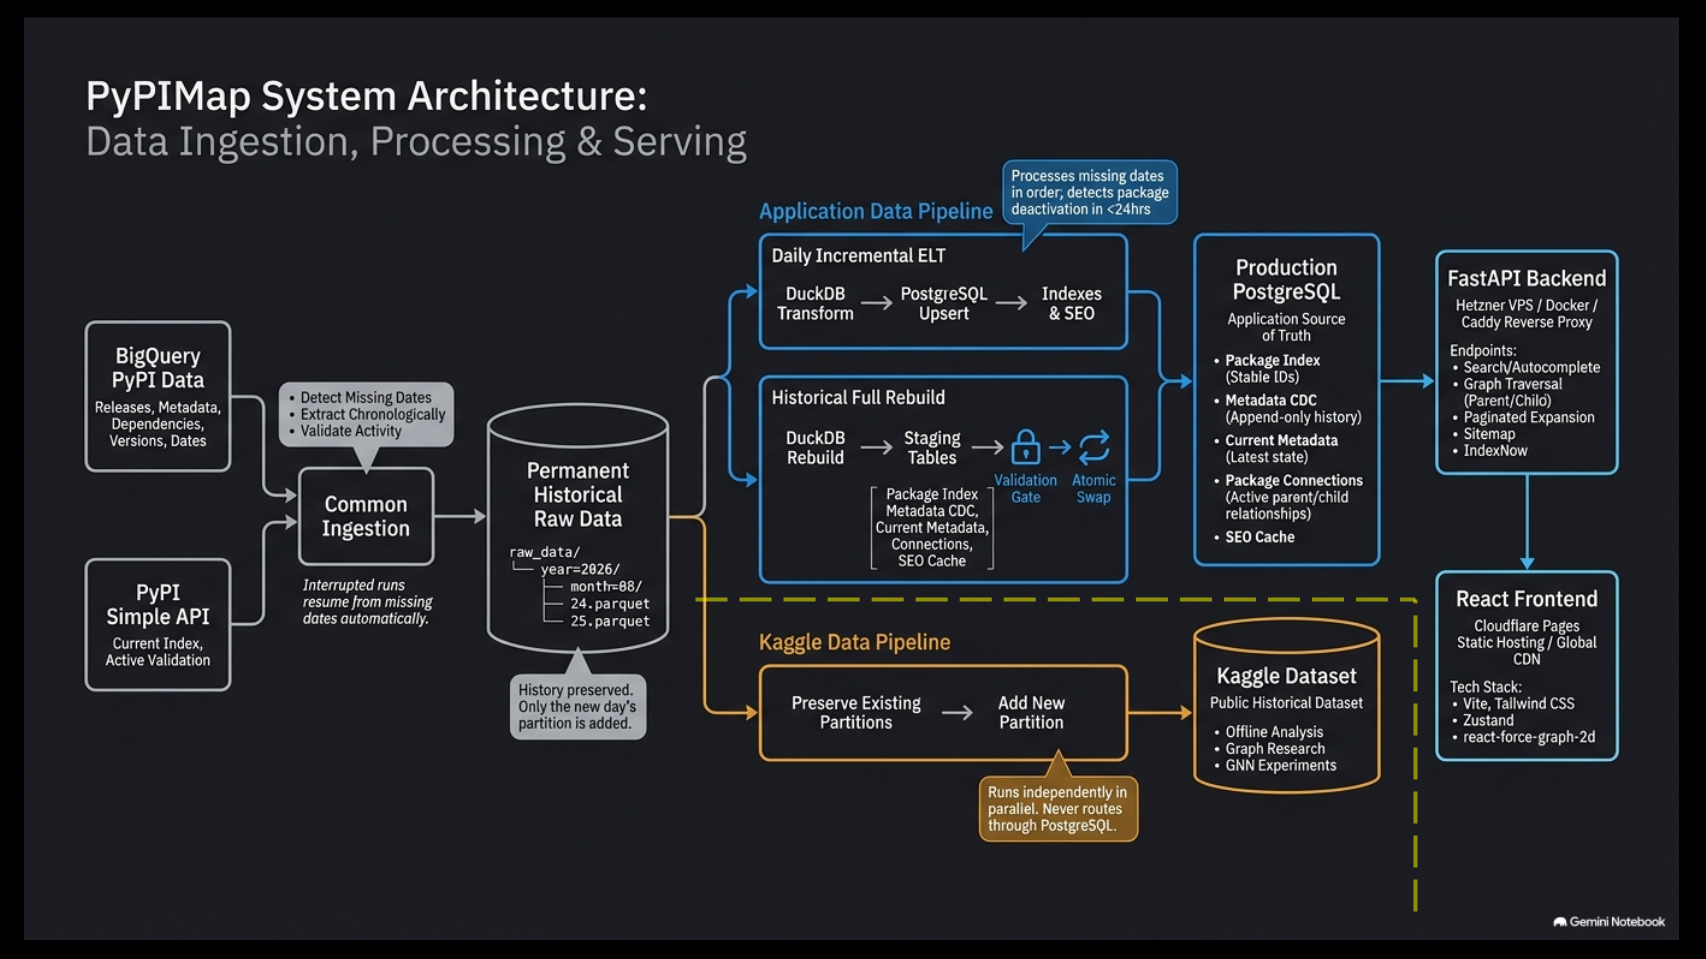
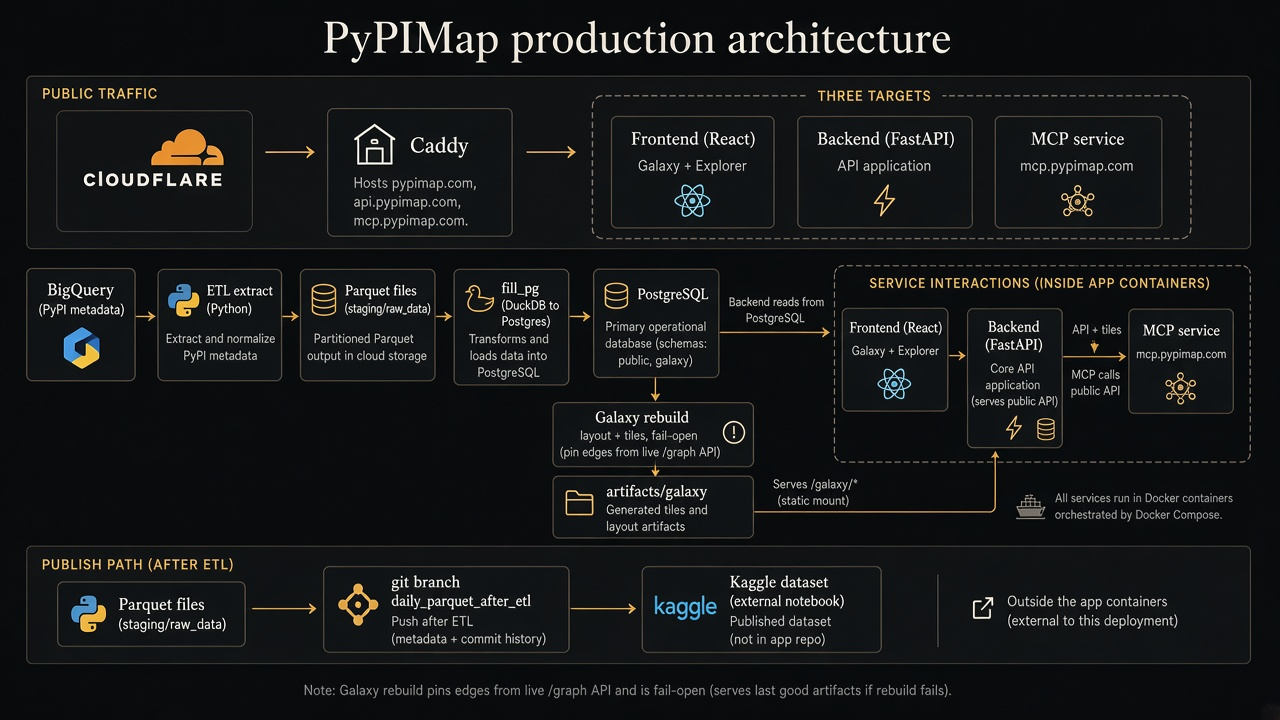
Refresh architecture diagram with naelaqel brand colors

diff --git a/README.md b/README.md
@@ -8,9 +8,9 @@
 
 ## Architecture
 
-How the system fits together: [`docs/project-map.md`](./docs/project-map.md).
+![PyPIMap architecture](./docs/architecture.png)
 
-(A new diagram image comes in Release 4 brand work.)
+More detail: [`docs/project-map.md`](./docs/project-map.md).
 
 ---
 
